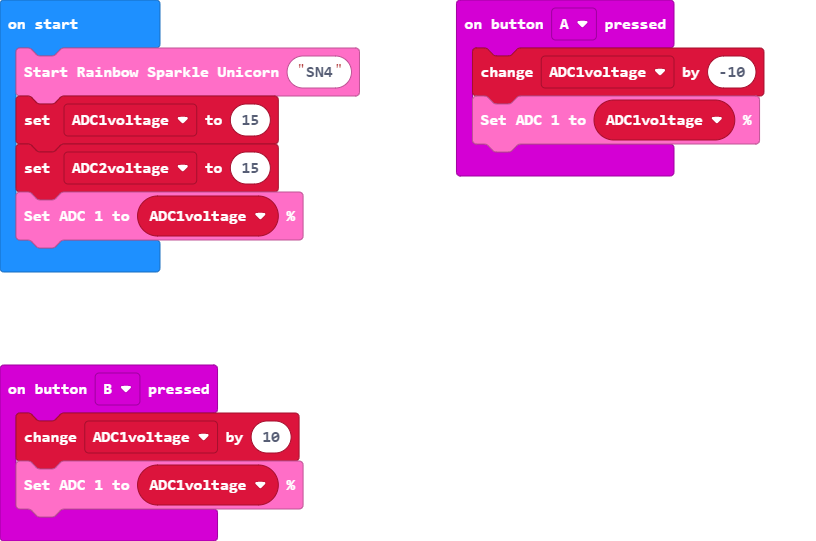
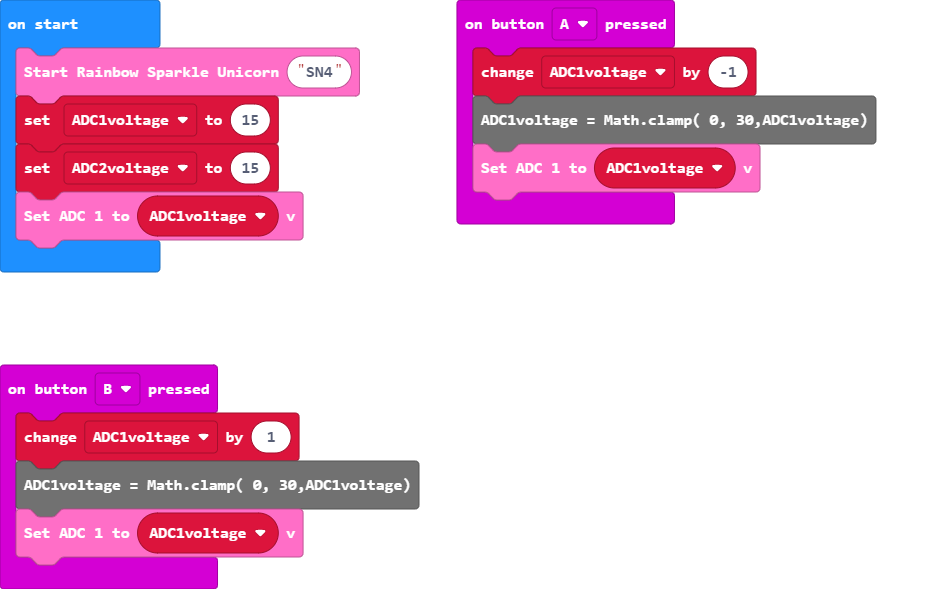
Update pxt.json, main.blocks, main.ts, custom.ts

diff --git a/custom.ts b/custom.ts
@@ -128,12 +128,13 @@ namespace RainbowSparkleUnicorn {
      * Set the analog dial to a certain voltage.
      * @param voltage the touch sensor to be checked, eg: 15
      */
-    //% block="Set ADC 1 to $voltage \\%"
+    //% block="Set ADC 1 to $voltage \\volts"
     //% voltage.min=0 voltage.max=30
     export function ADC1(voltage: number) {
  
-       voltage = Math.clamp( 0, 30,voltage)
-               //Need to resolve 0-30 to 0-254
+        voltage = Math.clamp( 0, 30,voltage)
+
+        //Need to resolve 0-30 to 0-254
         let mapped = pins.map(voltage, 0, 30, 0, 254)
 
         sendMessage("X1," + mapped)
@@ -143,12 +144,13 @@ namespace RainbowSparkleUnicorn {
      * Set the analog dial to a certain voltage.
      * @param voltage the touch sensor to be checked, eg: 15
      */
-    //% block="Set ADC 2 to $voltage \\%"
+    //% block="Set ADC 2 to $voltage \\volts"
     //% voltage.min=0 voltage.max=30
     export function ADC2(voltage: number) {
  
-     voltage = Math.clamp( 0, 30,voltage)
-               //Need to resolve 0-30 to 0-254
+        voltage = Math.clamp( 0, 30,voltage)
+        
+        //Need to resolve 0-30 to 0-254
         let mapped = pins.map(voltage, 0, 30, 0, 254)
         
         sendMessage("X2," + mapped)
@@ -157,5 +159,22 @@ namespace RainbowSparkleUnicorn {
   function sendMessage(message: string): void {
         serial.writeLine(message)
     }
+
+
+           //% weight=10 help=servos/set-pulse
+        //% blockId=servoservosetpulse block="set %servo pulse to %micros μs"
+        //% micros.min=500 micros.max=2500
+        //% micros.defl=1500
+        //% servo.fieldEditor="gridpicker"
+        //% servo.fieldOptions.width=220
+        //% servo.fieldOptions.columns=2
+        //% parts=microservo trackArgs=0
+        //% group="Configuration"
+        //% blockGap=8
+        setPulse(micros: number) {
+            micros = micros | 0;
+            micros = Math.clamp(500, 2500, micros);
+            //this.internalSetPulse(micros);
+        }
 
 }

diff --git a/main.ts b/main.ts
@@ -1,14 +1,15 @@
 input.onButtonPressed(Button.A, function () {
     ADC1voltage += -1
-      ADC1voltage = Math.clamp( 0, 30,ADC1voltage)
-    RainbowSparkleUnicorn.ADC1(ADC1voltage)
+    ADC1voltage = Math.clamp( 0, 30,ADC1voltage)
+RainbowSparkleUnicorn.ADC1(ADC1voltage)
 })
 input.onButtonPressed(Button.B, function () {
     ADC1voltage += 1
-      ADC1voltage = Math.clamp( 0, 30,ADC1voltage)
-    RainbowSparkleUnicorn.ADC1(ADC1voltage)
+    ADC1voltage = Math.clamp( 0, 30,ADC1voltage)
+RainbowSparkleUnicorn.ADC1(ADC1voltage)
 })
+let ADC1voltage = 0
 RainbowSparkleUnicorn.start("SN4")
-let ADC1voltage = 15
+ADC1voltage = 15
 let ADC2voltage = 15
 RainbowSparkleUnicorn.ADC1(ADC1voltage)
